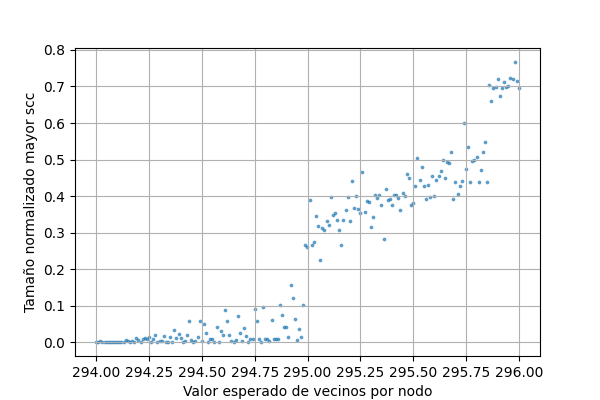
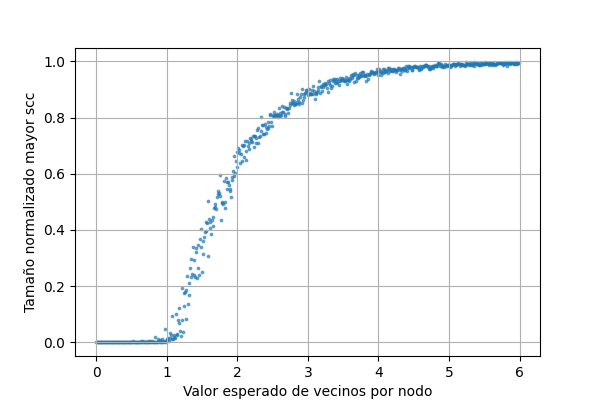
codigo con erdos jj comentado

diff --git a/Practica3/graph_24.py b/Practica3/graph_24.py
@@ -24,6 +24,10 @@ class Graph:
    
     def nodes(self) -> KeysView[str]:
         return sorted(self._V.keys())
+    
+    def nodesint(self) -> KeysView[str]:
+        return sorted(self._V.keys(), key=lambda x: int(x))
+
                       
     def adj(self, vertex) -> Set[str]:
         if str(vertex) not in self._E:
@@ -159,6 +163,54 @@ def graph_conjugate(G: Graph) -> Graph:
     
     return conjGraph
 
+'''
+def erdos_renyi(n: int, m: float = 1.) -> Graph:
+    Devuelve un grafo aleatorio dirigido
+        n: numero de nodos del grafo
+        m: numero medio de vecinos de un nodo
+
+        El número de vecinos de cada nodo del grafo se obtiene
+        a partir de una muestra de una distribución binomial de
+        probabilidad p = m/n usando la funcion binom.rvs(n, m/n, size=n)
+    
+
+    G = Graph()
+    for i in range(n):
+        G.add_node(i)
+
+    numVecinos = binom.rvs(n, m/n, size=n)
+
+    print("NODES", G.nodesint())
+
+    print("NUMVECINOS", numVecinos)
+
+    for u in G.nodesint():
+        choices = list(G.nodesint())    
+        while (True):
+            if numVecinos[int(u)] == 0:
+                print("NO MAS VECINOS PARA: ", u)
+                break
+            if numVecinos[int(u)] < 0:
+                print("NUMVECINOS", numVecinos)
+                print("ERROR", u , numVecinos[int(u)], len(numVecinos))
+                print("ERROR", "CHOICES", choices)
+                print("ERROR", "V", v)
+                input("PRESS ENTER TO CONTINUE.")
+                break
+            
+            if not choices:
+                print("NO MORE CHOICES AVAILABLE FOR: ", u)
+                break
+            
+            v = random.choice(choices)
+            choices.remove(v)
+            if numVecinos[int(v)] > 0 and not G.exists_edge(u, v):
+                numVecinos[int(u)] -= 1
+                G.add_edge(str(u), str(v))
+
+    return G
+'''
+
 def erdos_renyi(n: int, m: float = 1.) -> Graph:
     '''Devuelve un grafo aleatorio dirigido
         n: numero de nodos del grafo
@@ -172,15 +224,19 @@ def erdos_renyi(n: int, m: float = 1.) -> Graph:
     G = Graph()
     for i in range(n):
         G.add_node(i)
-    for u in G.nodes():
-        numVecinos = binom.rvs(n, m/n, size=n)
-        i=0
-        for v in G.nodes():
-            if numVecinos[i] > (n/m)*100:
-                G.add_edge(u, v)
-            i += 1
-    return G
 
+    numVecinos = binom.rvs(n, m/n, size=n)
+
+    for u in G.nodesint():
+        choices = list(G.nodesint())
+        while numVecinos[int(u)] > 0 and choices:
+            v = random.choice(choices)
+            choices.remove(v)
+            if not G.exists_edge(u, v):
+                G.add_edge(u, v)
+                numVecinos[int(u)] -= 1
+
+    return G
 
 def size_max_scc(n: int, m: int) -> Tuple[float, float]:
     '''
@@ -193,11 +249,7 @@ def size_max_scc(n: int, m: int) -> Tuple[float, float]:
     g = erdos_renyi(n, m)
 
     componentes_conexas = g.tarjan()
-    maximo = 0
-
-    for componente in componentes_conexas:
-        if len(componente) > maximo:
-            maximo = len(componente)
+    maximo = max(len(componente) for componente in componentes_conexas)
 
     return maximo/n, m
 

diff --git a/Practica3/pyplot.py b/Practica3/pyplot.py
@@ -20,9 +20,9 @@ def grafica(points, file='percolation.png') -> None:
     plt.savefig(file)
     #plt.show()
 
-mmax = 296
+mmax = 6
 incr = 0.01
-for m in np.arange(294, mmax + incr , incr):
+for m in np.arange(0, mmax, incr):
     os.system('clear')
     print(f'Graficando... {((m/mmax)*100):.2f}%\n')
     points.append(size_max_scc(n, m))
